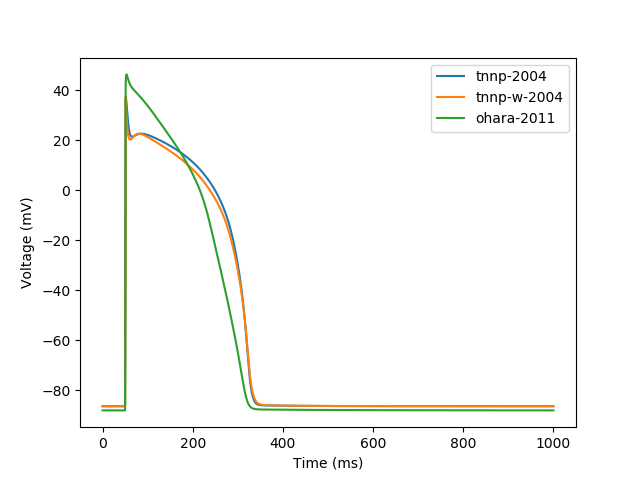
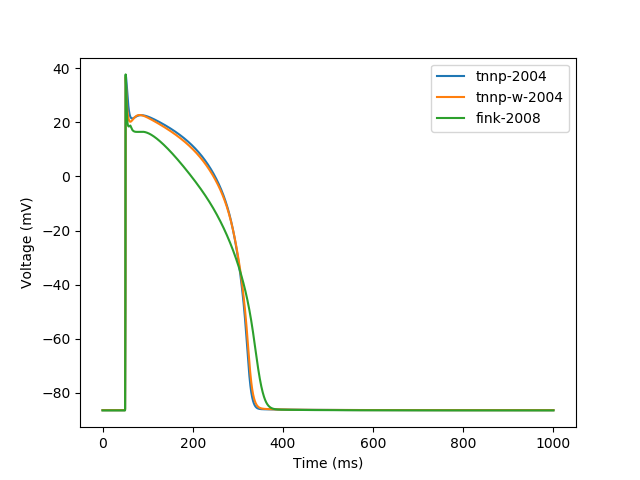
Use Fink 2008 IKr model in tnnp-2004-w

diff --git a/action-potential-models/test-model.py b/action-potential-models/test-model.py
@@ -20,15 +20,15 @@ model_tnnp = m.Model('./mmt-model-files/tnnp-2004.mmt')
 model_tnnp.set_name('tnnp-2004')
 model_tnnpw = m.Model('./mmt-model-files/tnnp-2004-w.mmt')
 model_tnnpw.set_name('tnnp-w-2004')
-model_ohara = m.Model('./mmt-model-files/ohara-2011.mmt')
-model_ohara.set_name('ohara-2011')
+model_fink = m.Model('./mmt-model-files/fink-2008.mmt')
+model_fink.set_name('fink-2008')
 
 # Default stimuli
 times = np.linspace(0, 1000, 5000)
 
 sim_tnnp = model_tnnp.simulate(np.ones(model_tnnp.n_parameters()), times)
 sim_tnnpw = model_tnnpw.simulate(np.ones(model_tnnpw.n_parameters()), times)
-sim_ohara = model_ohara.simulate(np.ones(model_ohara.n_parameters()), times)
+sim_fink = model_fink.simulate(np.ones(model_fink.n_parameters()), times)
 
 for _ in range(10):
     assert(np.all(np.abs(
@@ -39,15 +39,15 @@ for _ in range(10):
                     times)
                 - sim_tnnpw) < 1e-6))
     assert(np.all(np.abs(
-                model_ohara.simulate(np.ones(model_ohara.n_parameters()),
+                model_fink.simulate(np.ones(model_fink.n_parameters()),
                     times)
-                - sim_ohara) < 1e-6))
+                - sim_fink) < 1e-6))
 
 # and have a look at it
 plt.figure()
 plt.plot(times, sim_tnnp, label=model_tnnp.name())
 plt.plot(times, sim_tnnpw, label=model_tnnpw.name())
-plt.plot(times, sim_ohara, label=model_ohara.name())
+plt.plot(times, sim_fink, label=model_fink.name())
 plt.legend()
 plt.xlabel('Time (ms)')
 plt.ylabel('Voltage (mV)')
@@ -57,7 +57,7 @@ else:
     plt.show()
 plt.close()
 
-del(model_tnnp, model_tnnpw, model_ohara)
+del(model_tnnp, model_tnnpw, model_fink)
 
 
 # Input stimuli
@@ -77,13 +77,13 @@ model_tnnp.set_name('tnnp-2004')
 model_tnnpw = m.Model('./mmt-model-files/tnnp-2004-w.mmt',
         stim_seq=random_stim)
 model_tnnpw.set_name('tnnp-w-2004')
-model_ohara = m.Model('./mmt-model-files/ohara-2011.mmt',
+model_fink = m.Model('./mmt-model-files/fink-2008.mmt',
         stim_seq=random_stim)
-model_ohara.set_name('ohara-2011')
+model_fink.set_name('fink-2008')
 
 sim_tnnp = model_tnnp.simulate(np.ones(model_tnnp.n_parameters()), times)
 sim_tnnpw = model_tnnpw.simulate(np.ones(model_tnnpw.n_parameters()), times)
-sim_ohara = model_ohara.simulate(np.ones(model_ohara.n_parameters()), times)
+sim_fink = model_fink.simulate(np.ones(model_fink.n_parameters()), times)
 
 for _ in range(10):
     assert(np.all(np.abs(
@@ -94,15 +94,15 @@ for _ in range(10):
                     times)
                 - sim_tnnpw) < 1e-6))
     assert(np.all(np.abs(
-                model_ohara.simulate(np.ones(model_ohara.n_parameters()),
+                model_fink.simulate(np.ones(model_fink.n_parameters()),
                     times)
-                - sim_ohara) < 1e-6))
+                - sim_fink) < 1e-6))
 
 # and have a look at it
 plt.figure()
 plt.plot(times, sim_tnnp, label=model_tnnp.name())
 plt.plot(times, sim_tnnpw, label=model_tnnpw.name())
-plt.plot(times, sim_ohara, label=model_ohara.name())
+plt.plot(times, sim_fink, label=model_fink.name())
 plt.legend()
 plt.xlabel('Time (ms)')
 plt.ylabel('Voltage (mV)')
